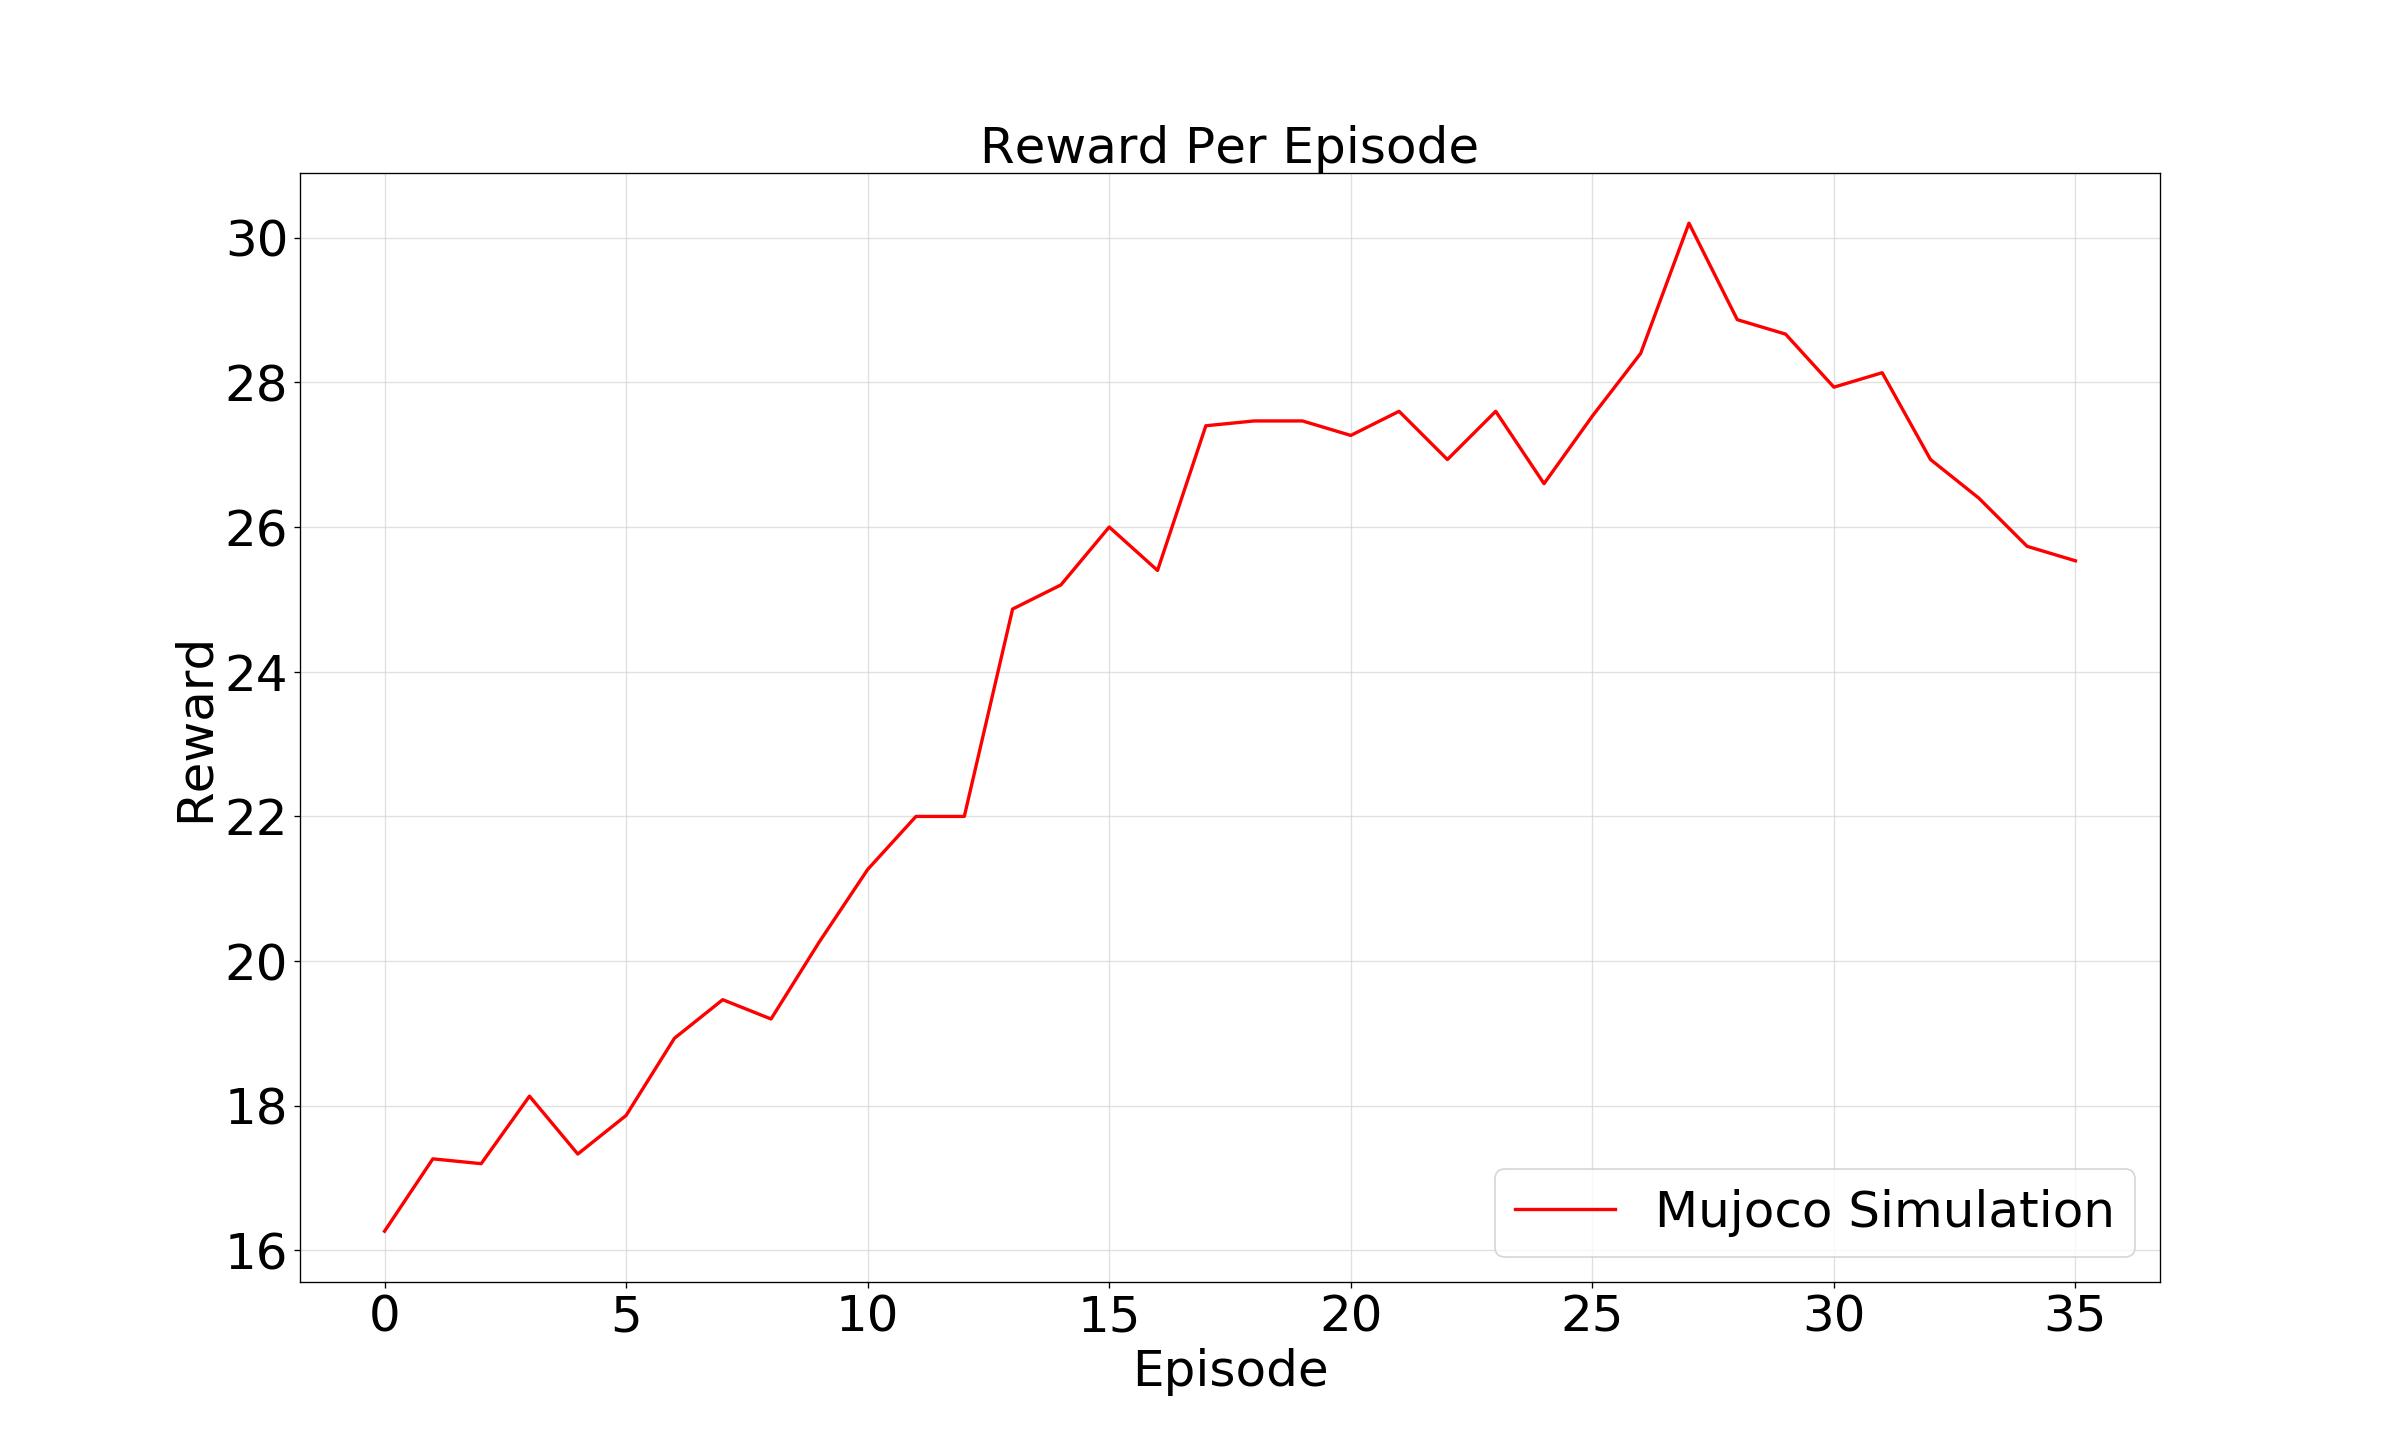
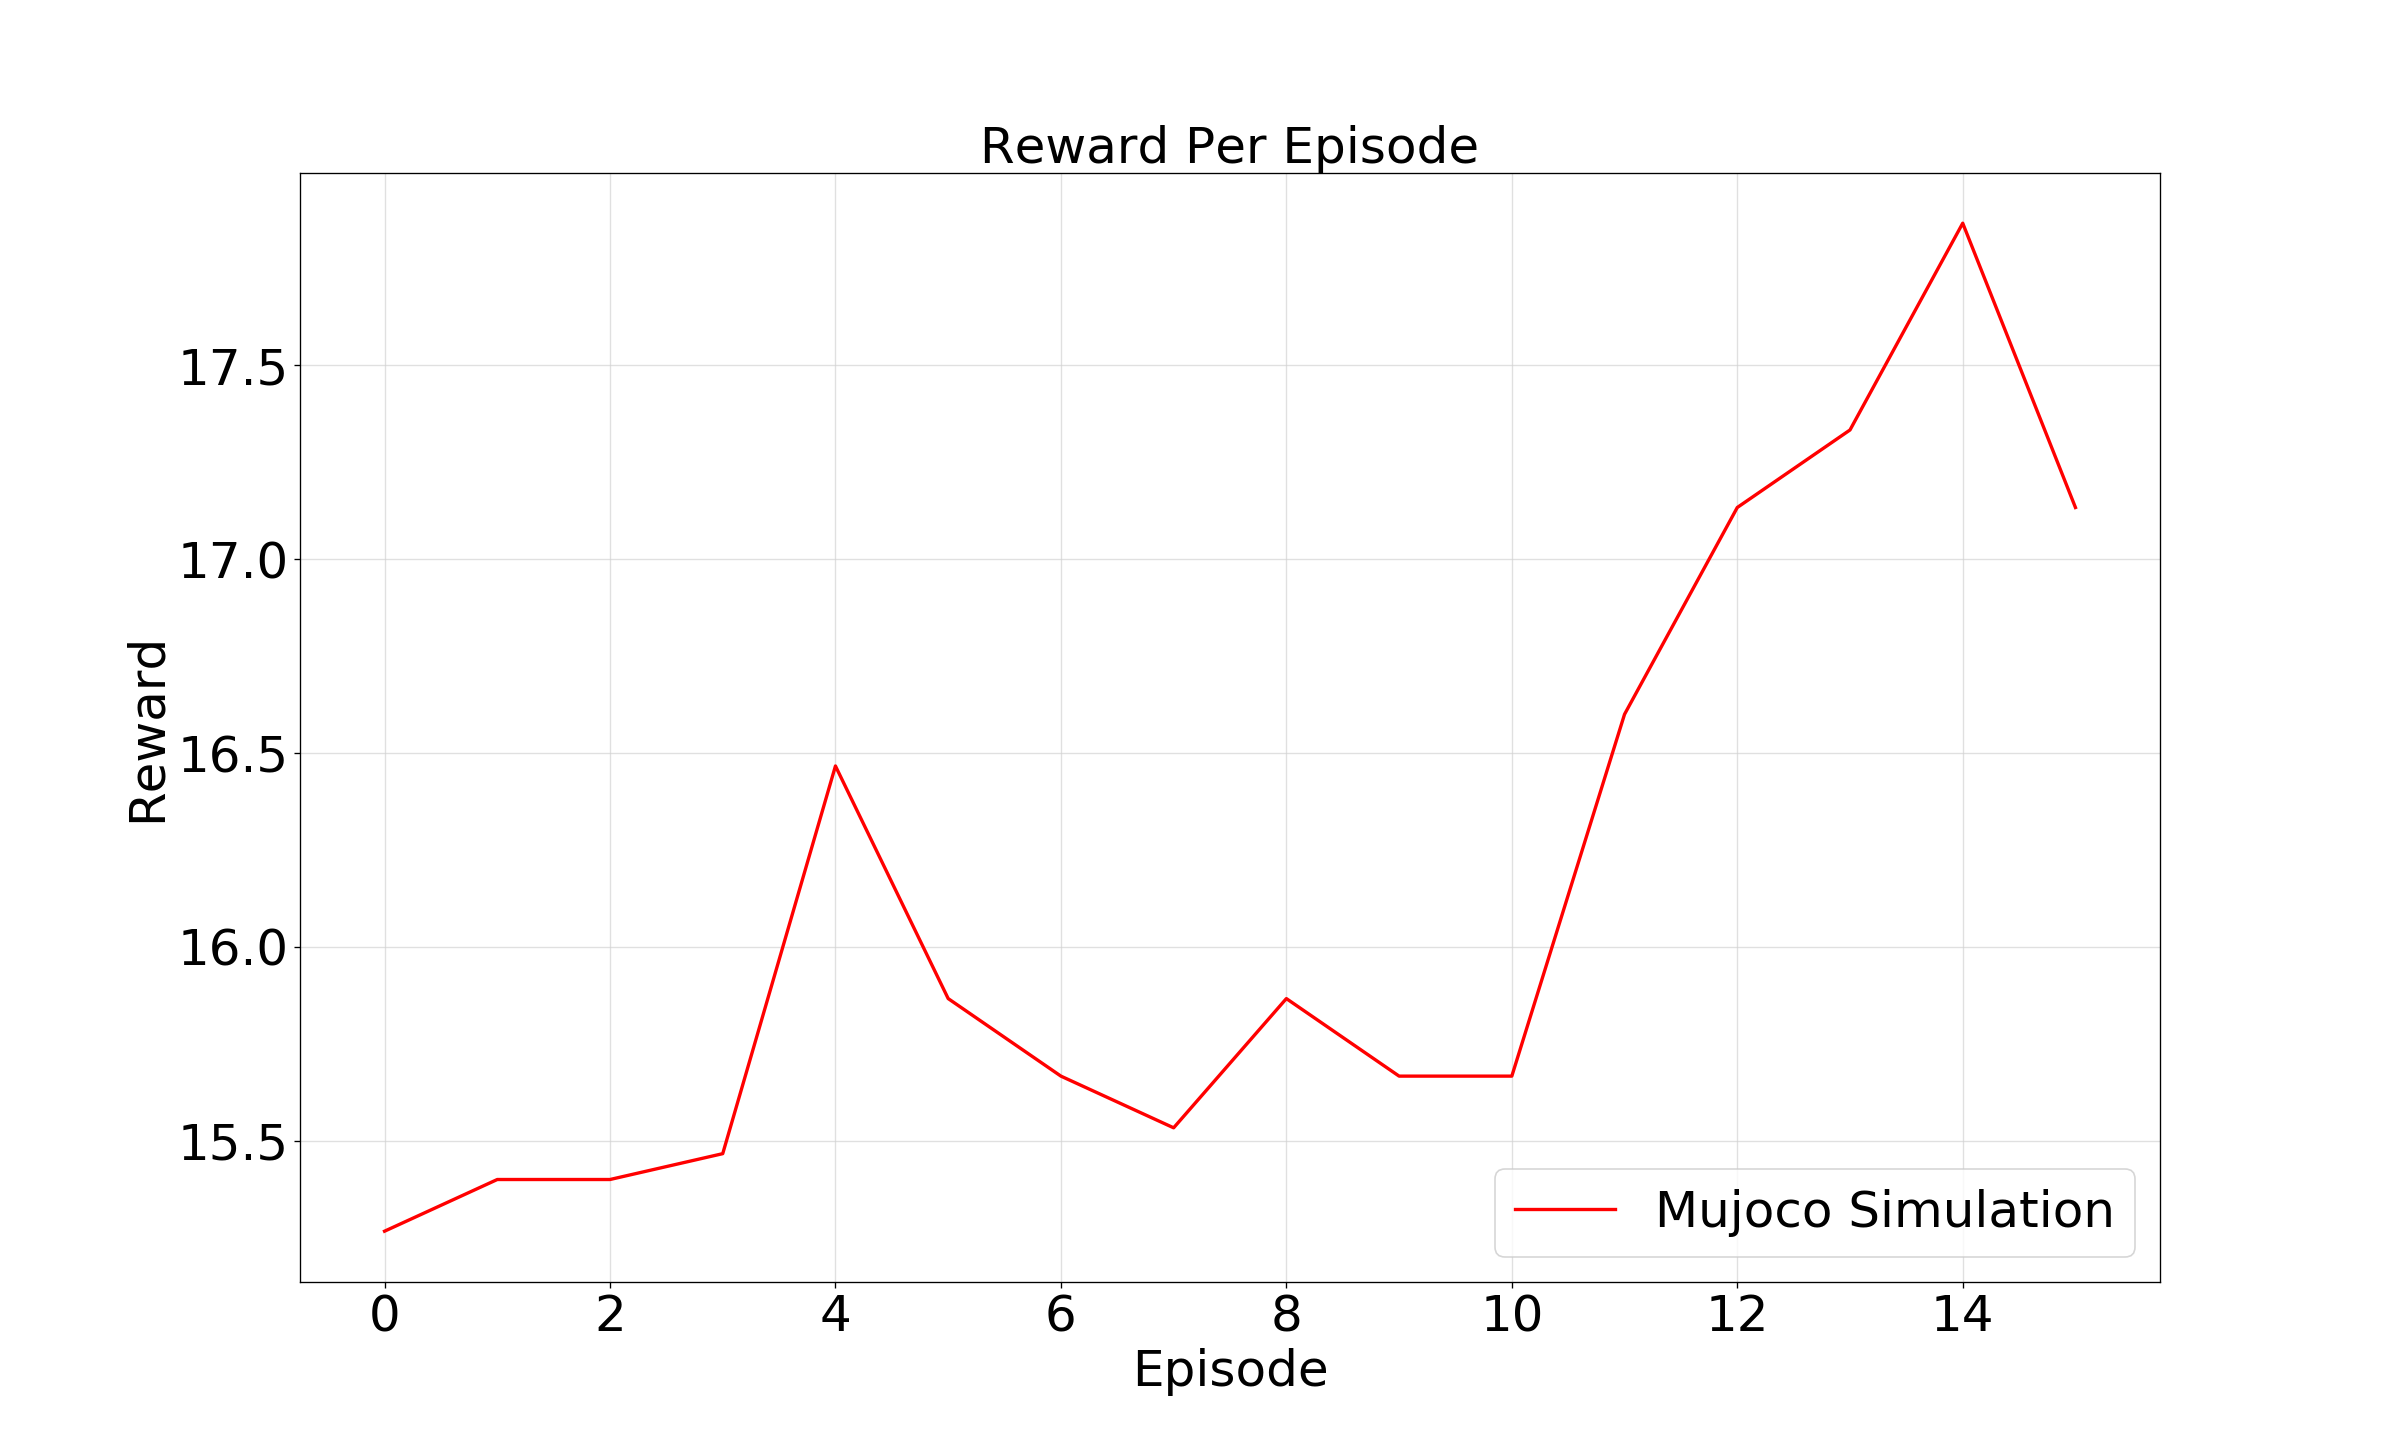
agora o mujoco tem a opcao transfer learning (ultima linha de parametros.txt).

diff --git a/Inverted Pendulum/InvertedPendulum_Mujoco.py b/Inverted Pendulum/InvertedPendulum_Mujoco.py
@@ -21,12 +21,13 @@ NUMBER_OF_EPISODES = int(linelist[5])
 NUMBER_OF_ITERATIONS = int(linelist[6])
 PICK_FROM_BUFFER_SIZE = int(linelist[7])
 RENDER = int(linelist[8])
+TRANSFER_LEARNING = int(linelist[9])
 
 #Parâmetros definidos pelo sistema
 BUFFER_LEN = 2000000
 EPSILON = 1
 
-ACTION_SPACE_SIZE = 3
+ACTION_SPACE_SIZE = 2 # 3
 
 
 #Definindo parâmetros da rede neural
@@ -78,23 +79,37 @@ class DQN_Agent:
 
 #Modelando a rede neural
     def create_network(self):
-        model = models.Sequential()
+        #model = models.Sequential()
         #Pega o tamanho do espaço de observações do ambiente
         state_shape = self.env.observation_space.shape
 
-        #A rede tem arquitetura escolhida pelo usuário
-        for i in range(NUMBER_OF_LAYERS):
-            if(i == 0):
-                model.add(layers.Dense(NEURONS_PER_LAYER[0], activation='relu', input_shape=state_shape))
-            else:
-                model.add(layers.Dense(NEURONS_PER_LAYER[i], activation='relu'))
+        if TRANSFER_LEARNING:
+            model = models.Sequential()
+            #Pega o tamanho do espaço de observações do ambiente
+            state_shape = self.env.observation_space.shape
 
-        #O tamanho da output layer é igual ao tamanho do espaço de ações
-        model.add(layers.Dense(ACTION_SPACE_SIZE, activation='linear'))
+            #A rede tem duas hidden layers, uma com 24 nós e outra com 48
+            model.add(layers.Dense(32, activation='relu', input_shape=state_shape))
+            model.add(layers.Dense(16, activation='relu'))
+            #O tamanho da output layer é igual ao tamanho do espaço de ações
+            model.add(layers.Dense(ACTION_SPACE_SIZE, activation='linear'))
+
+            #Transfer learning aqui
+            model.load_weights("./model_inverted_numerical/model_numerical.h5")
+        else:
+            model = models.Sequential()
+            #A rede tem arquitetura escolhida pelo usuário
+            for i in range(NUMBER_OF_LAYERS):
+                if(i == 0):
+                    model.add(layers.Dense(NEURONS_PER_LAYER[0], activation='relu', input_shape=state_shape))
+                else:
+                    model.add(layers.Dense(NEURONS_PER_LAYER[i], activation='relu'))
+            #O tamanho da output layer é igual ao tamanho do espaço de ações
+            model.add(layers.Dense(ACTION_SPACE_SIZE, activation='linear'))
 
         model.compile(loss='mse', optimizer=Adam(lr=self.learning_rate))
 
-        #pf(model.summary())
+        pf(model.summary())
         return model
 
 #Escolhe qual ação tomar(aleatória ou não)
@@ -167,9 +182,9 @@ class DQN_Agent:
         if(act == 0):
             action = -0.2
         elif(act == 1):
-            action = 0
-        elif(act == 2):
             action = 0.2
+        #elif(act == 2):
+        #    action = 0.2
 
         return action
 

diff --git a/Inverted Pendulum/InvertedPendulum_Numerico.py b/Inverted Pendulum/InvertedPendulum_Numerico.py
@@ -176,7 +176,7 @@ class DQN_Agent:
                 #Caso tenha concluído no step atual, dá um break no loop
                 if done:
                     pf("Episodio: " + str(eps).zfill(3) + " || " + str(i).zfill(3) + " Steps" + " || Reward: " + str(reward_sum).zfill(3) + " || EPSILON: " + '{:.3f}'.format(self.epsilon), flush=True)
-                    self.train_network.save('./model_inverted_numerical/model_numerical.h5')
+                    self.train_network.save_weights('./model_inverted_numerical/model_numerical.h5')
                     break
 
             #Armazena a reward total e o numero total de steps gastos para, posteriormente, plotar graficos
